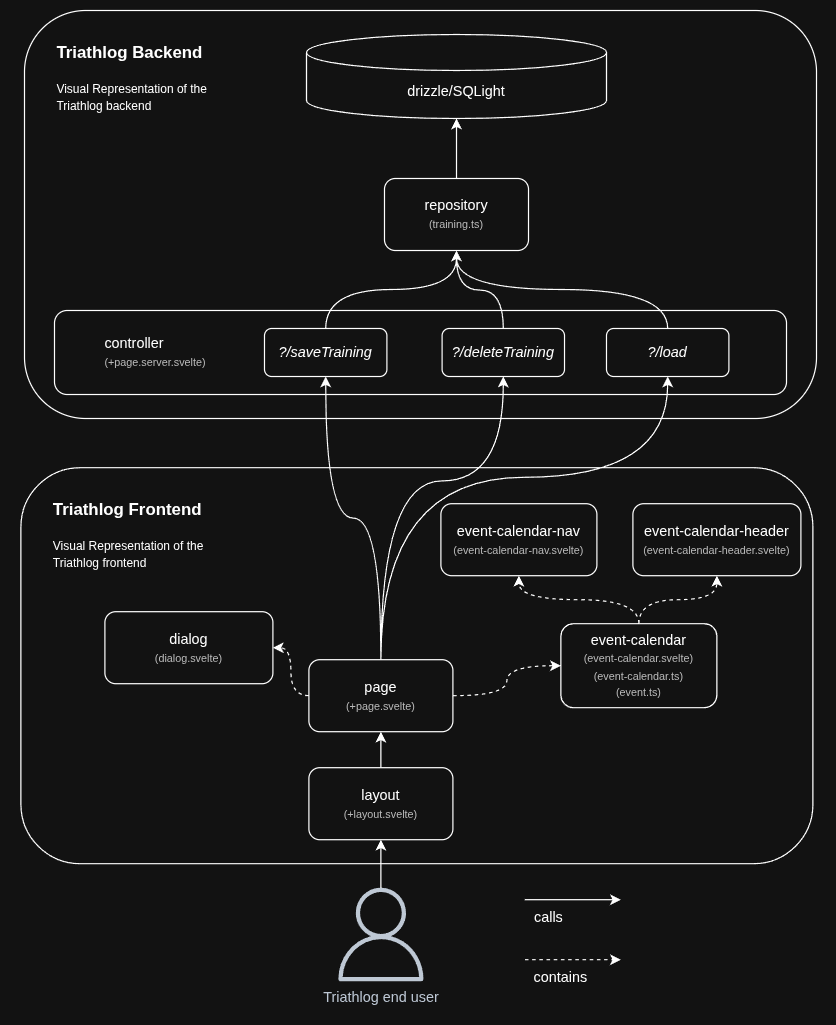
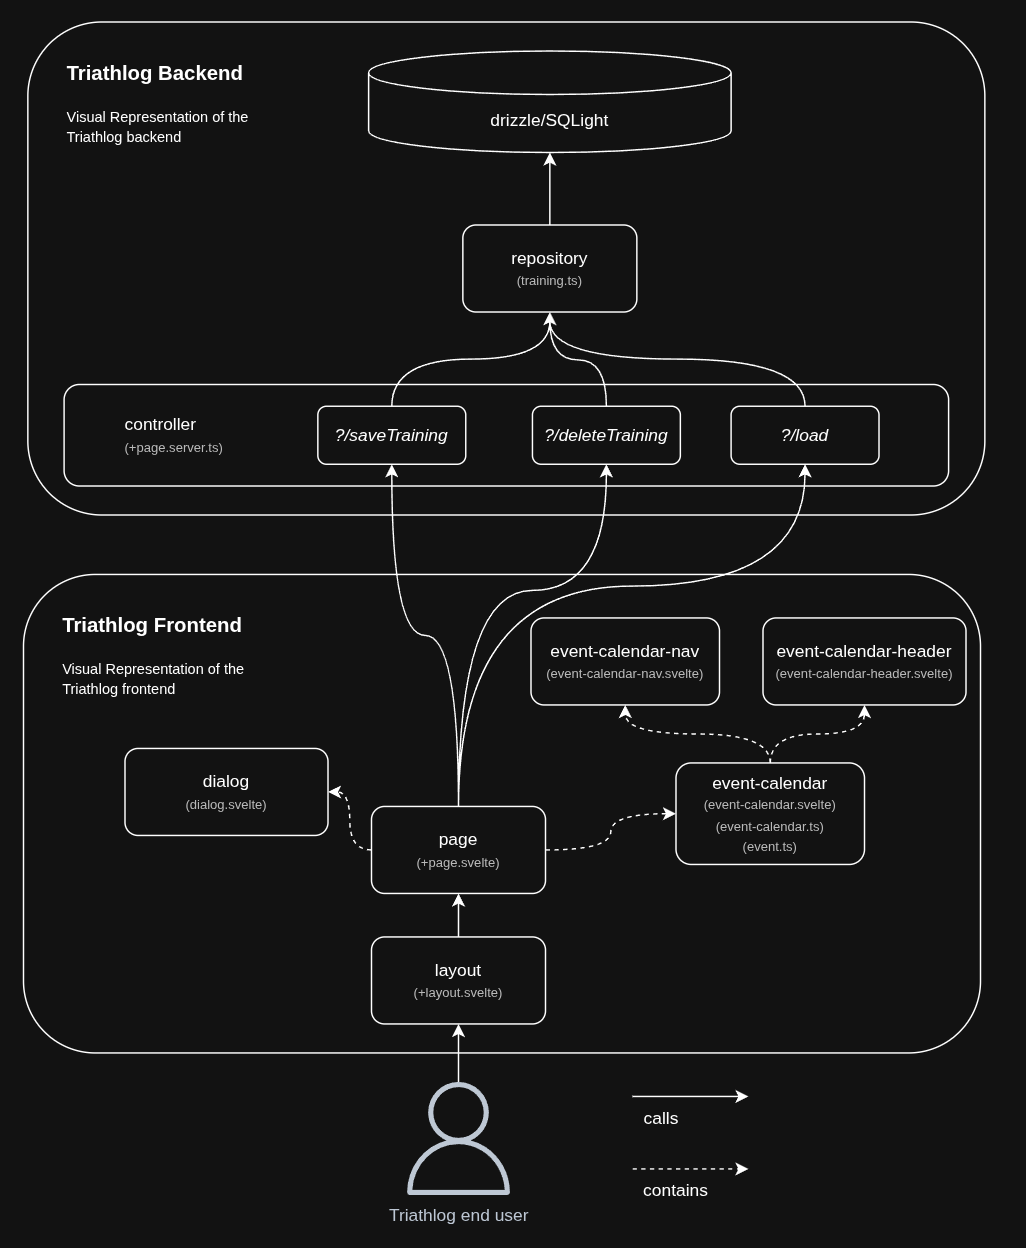
docs: update diagrams and add runtime view

diff --git a/docs/documentation.md b/docs/documentation.md
@@ -80,21 +80,23 @@ Combining the frontend and the backend, the complete system looks as shown in th
 ![Building-Blocks](./diagrams/building-blocks.png)
 
 ## 6. Runtime View
+The runtime view below shows the sequence of events happening upon creating/updating/deleting (CRUD) trainings from Triathlog.
+
+![Runtime](./diagrams/runtime.png)
 
 ## 7. Deployment View
+Focusing on the sole development of the appliation no production ready deployment method (e.g Docker container) has been created yet.
 
-## 8. Crosscutting Concepts
+## 8. Architectural Decisions
 
-## 9. Architectural Decisions
-
-### 9.1 Custom event-calendar component
+### 8.1 Custom event-calendar component
 Searching for a prebuilt calendar component integrating neatly with the planned Triathlog functionality, not many options were found. The only real option,  [EventCalendar](https://github.com/vkurko/calendar) looked way too complex and feature-rich for the intended use case. On the other hand developing a custom component would require a considerable amount of time.
 
 **Decision**
 
 In the end the decision was made to develop a tailor-made event-calendar component, fitting the exact needs of Triathlog and therefore reducing overall complexity by only providing what's needed.
 
-### 9.2 Using JS native Date API
+### 8.2 Using JS native Date API
 Due to the nature of the project and its heavy reliance on date and time objects,
 multiple third-party packages like [date-and-time](https://www.npmjs.com/package/date-and-time) and [date-time](https://www.npmjs.com/package/date-time) were considered, enhancing JavaScript's Date API and thus making it easier to work with. 
 
@@ -102,7 +104,7 @@ multiple third-party packages like [date-and-time](https://www.npmjs.com/package
 
 In the end it was decided to stick with JavaScript's core Date API, keeping the event components less dependent at the cost of a slight compromise in developer experience. 
 
-## 10. Quality Requirements
+## 9. Quality Requirements
 The Triathlog application should comply with the following set of quality requirements:
 
 - Functionality should be validated using automated unit & integration tests.
@@ -111,7 +113,7 @@ The Triathlog application should comply with the following set of quality requir
 
 The quality requirements can also be found [here](./triathlog.md#quality-features)
 
-## 11. Risks & Technical Debt
+## 10. Risks & Technical Debt
 During development the following accumulated risks and technical debts where identified.
 
 |Title|Description|Type|time estimate|
@@ -119,7 +121,7 @@ During development the following accumulated risks and technical debts where ide
 |Testing|Currently there is no automated testing done in Triathlog. Adding some components and e2e tests would greatly help cut down the time needed for manual testing and ensure componets work as expected after changes.|Issue|8h
 |Configurability|Currently available trainig disciplines are hardcoded and can't be changed. Allowing for configurability disciplines would help in better fitting Triathlog to individual athletes needs.|Feature|4h
 
-## 12. Reflection
+## 11. Reflection
 With little to no prior background in web development, getting to know all these concepts of developing web applications on top of getting to know an entire framework came as a steep learning curve.
 
 Luckily, having a very extensive tutorial on [svelte.dev](https://svelte.dev/tutorial/svelte/welcome-to-svelte) helped me get going faster than initially anticipated. Whenever I had any problems, I could go back to the documentation and be assured there would be information found to solve my problem. In the rare occasion where this wasn't the case, there were some great blogs, Stackoverflow and some short explanations from ChatGPT at hand, eventually resolving the matter.
@@ -130,7 +132,7 @@ Another little annoyance was the proper definition of the zod schema for form va
 
 All in all, developing Triathlog was a very enjoyable project for me to work on. I got to know many new concepts and technologies, which I hopefully can put to use again in future. I envision continuing working on Triathlog, making it a viable planning tool towards my goal of completing an [Ironman 70.3](https://en.wikipedia.org/wiki/Ironman_70.3) in 2026.
 
-## 13. Glossary
+## 12. Glossary
 |Abbrevation|Description|
 |-----------|-----------|
 |SQL| Structured Query Language|

diff --git a/docs/journal.md b/docs/journal.md
@@ -17,3 +17,4 @@ This journal logs all efforts torwards bringing the triathlog to life.
 |27.09.2025| - Refactoring event-calendar and dialog <br /> - Implement edit training feature | 6h
 |28.09.2025| - Refactoring main page <br /> - Enhance error respones with sonner <br /> - Add delete functionality <br /> - Add mark as done functionality | 7h 
 |29.09.2025| - Documentation|3h
+|30.09.2025| - Documentation|1h
